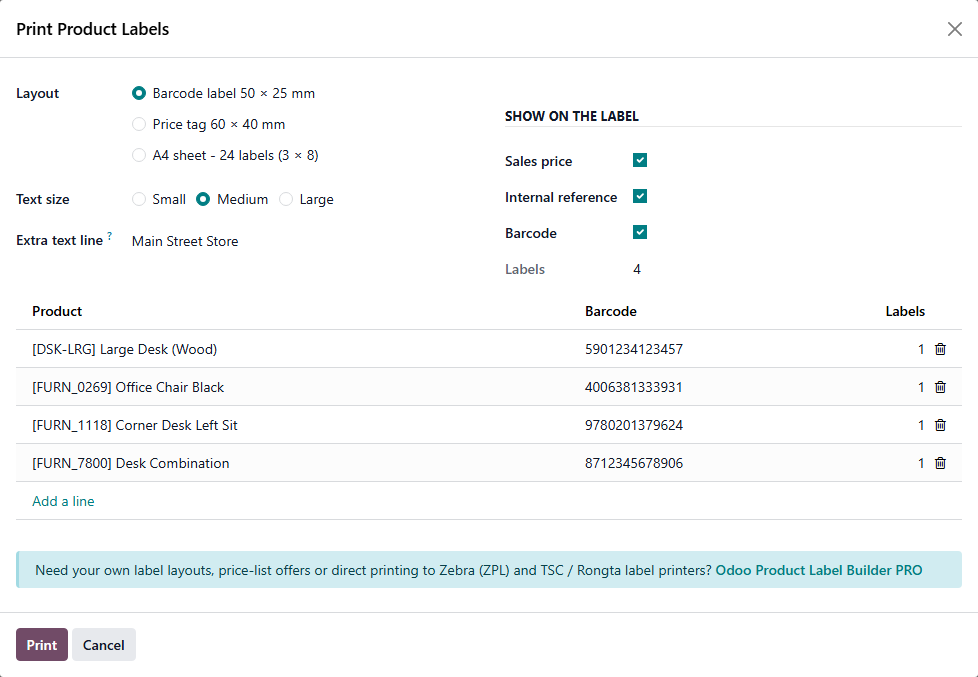
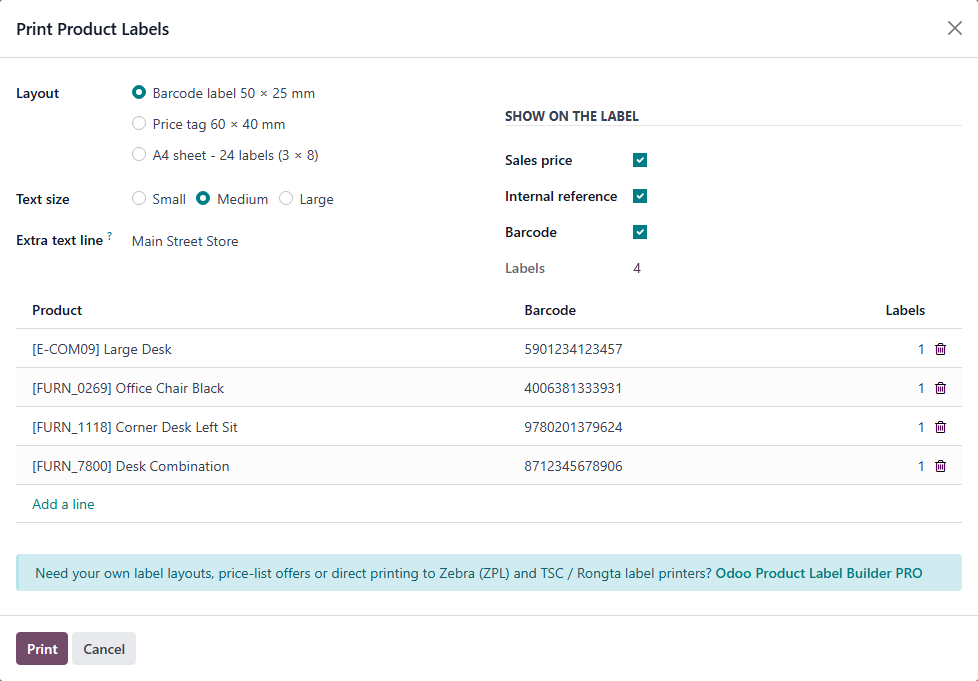
Product Label Builder 17.0.1.0.0 (free): port to Odoo 17
- list views are <tree> in Odoo 17 (product list of the app and the products in the print window)
- version 17.0.1.0.0, store page, banner chip, print-window screenshot and PRO links for Odoo 17
Tested on Odoo 17.0+e: install, print button, variants, 3 layouts as PDF with report styles, limits.

diff --git a/product_label_builder/static/description/index.html b/product_label_builder/static/description/index.html
@@ -3,7 +3,7 @@
     <!-- ================= HERO ================= -->
     <div class="nls-hero overflow-hidden" style="width: 100%; box-sizing: border-box; overflow: hidden !important; isolation: isolate; background-clip: padding-box; background-color: #4f274f; border-radius: 14px !important; padding: 52px 7%; margin-bottom: 34px;">
         <div>
-            <p style="margin: 0 0 14px; color: #fbb945; font-size: 15px; font-weight: 700; letter-spacing: 1.2px;">PRODUCT LABEL BUILDER &bull; FREE &bull; BARCODE &amp; PRICE LABELS FOR ODOO 19</p>
+            <p style="margin: 0 0 14px; color: #fbb945; font-size: 15px; font-weight: 700; letter-spacing: 1.2px;">PRODUCT LABEL BUILDER &bull; FREE &bull; BARCODE &amp; PRICE LABELS FOR ODOO 17</p>
             <h1 style="margin: 0 0 18px; color: #ffffff; font-size: 38px; line-height: 1.2; font-weight: 700;">Free barcode labels, price tags and A4 label sheets for Odoo</h1>
             <p style="margin: 0 0 18px; color: #fbb945; font-size: 22px; line-height: 1.4; font-weight: 700;">Pick products. Choose a layout. Print.</p>
             <p class="nls-intro" style="max-width: 880px; margin: 0; color: #eadfea; font-size: 19px; line-height: 1.65;">
@@ -11,7 +11,7 @@
             </p>
             <div style="margin-top: 24px; line-height: 2.4;">
                 <span style="display: inline-block; padding: 7px 14px; border: 1px solid #fbb945; border-radius: 20px; margin: 0 8px 8px 0; color: #3f2142; background-color: #fbb945; font-size: 14px; font-weight: 700;">100% free</span>
-                <span style="display: inline-block; padding: 7px 14px; border: 1px solid #fbb945; border-radius: 20px; margin: 0 8px 8px 0; color: #ffffff; font-size: 14px; font-weight: 700;">Odoo 19 Community &amp; Enterprise</span>
+                <span style="display: inline-block; padding: 7px 14px; border: 1px solid #fbb945; border-radius: 20px; margin: 0 8px 8px 0; color: #ffffff; font-size: 14px; font-weight: 700;">Odoo 17 Community &amp; Enterprise</span>
                 <span style="display: inline-block; padding: 7px 14px; border: 1px solid #b892b3; border-radius: 20px; margin: 0 8px 8px 0; color: #eadfea; font-size: 14px;">PDF for any printer</span>
                 <span style="display: inline-block; padding: 7px 14px; border: 1px solid #b892b3; border-radius: 20px; margin: 0 8px 8px 0; color: #eadfea; font-size: 14px;">Only needs Products</span>
                 <span style="display: inline-block; padding: 7px 14px; border: 1px solid #b892b3; border-radius: 20px; margin: 0 8px 8px 0; color: #eadfea; font-size: 14px;">No extra Python libraries</span>
@@ -149,7 +149,7 @@
           </div>
         </div>
         <div style="margin-top: 22px; text-align: center;">
-            <a href="https://apps.odoo.com/apps/modules/19.0/label_studio_pro" target="_blank" style="display: inline-block; max-width: 100%; box-sizing: border-box; padding: 14px 28px; border-radius: 30px; background-color: #985184; color: #ffffff; font-size: 17px; font-weight: 700; line-height: 1.4; text-decoration: none;">See Label Studio Pro &rarr;</a>
+            <a href="https://apps.odoo.com/apps/modules/17.0/label_studio_pro" target="_blank" style="display: inline-block; max-width: 100%; box-sizing: border-box; padding: 14px 28px; border-radius: 30px; background-color: #985184; color: #ffffff; font-size: 17px; font-weight: 700; line-height: 1.4; text-decoration: none;">See Label Studio Pro &rarr;</a>
         </div>
     </div>
 
@@ -178,7 +178,7 @@
     <!-- ================= FOOTER ================= -->
     <div class="nls-footer overflow-hidden" style="width: 100%; box-sizing: border-box; overflow: hidden !important; margin-top: 24px; padding: 30px 5%; text-align: center; background-color: #4f274f; border-radius: 14px !important;">
         <h2 style="margin: 0 0 10px; color: #ffffff; font-size: 27px; font-weight: 700;">Pick products. Choose a layout. Print.</h2>
-        <p style="margin: 0 0 4px; color: #eadfea; font-size: 16px; line-height: 1.6;">Product Label Builder for Odoo 19 &nbsp;&bull;&nbsp; Free &nbsp;&bull;&nbsp; LGPL-3</p>
+        <p style="margin: 0 0 4px; color: #eadfea; font-size: 16px; line-height: 1.6;">Product Label Builder for Odoo 17 &nbsp;&bull;&nbsp; Free &nbsp;&bull;&nbsp; LGPL-3</p>
         <p style="margin: 0; color: #cdbdce; font-size: 14px; line-height: 1.6;">Built and maintained by NexMosaic Technologies</p>
         <p style="margin: 12px 0 0; color: #eadfea; font-size: 15px; line-height: 1.6;">Help, an issue or an idea? Contact <a href="mailto:support@nexmosaictechnologies.com" style="color: #fbb945; font-weight: 700; text-decoration: none; word-break: break-word;">support@nexmosaictechnologies.com</a></p>
     </div>

diff --git a/product_label_builder/__manifest__.py b/product_label_builder/__manifest__.py
@@ -1,6 +1,6 @@
 {
     'name': 'Odoo Product Label Builder – Free | Barcode & Price Labels (PDF)',
-    'version': '19.0.1.0.0',
+    'version': '17.0.1.0.0',
     'category': 'Inventory/Inventory',
     'summary': 'Free product label builder for Odoo: print barcode labels, price tags and A4 label sheets as PDF '
                'from the product list. Choose products, quantities and a layout - no setup, no extra libraries.',
